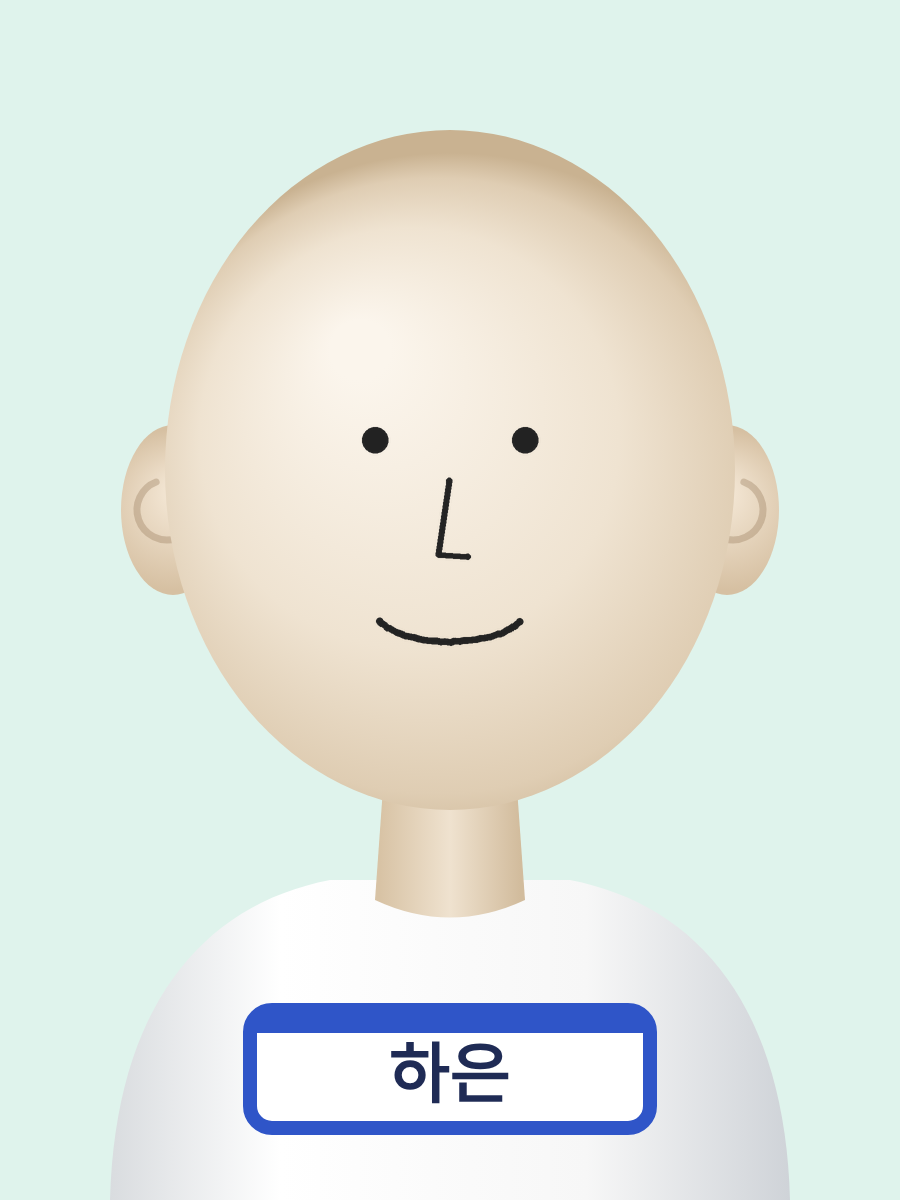
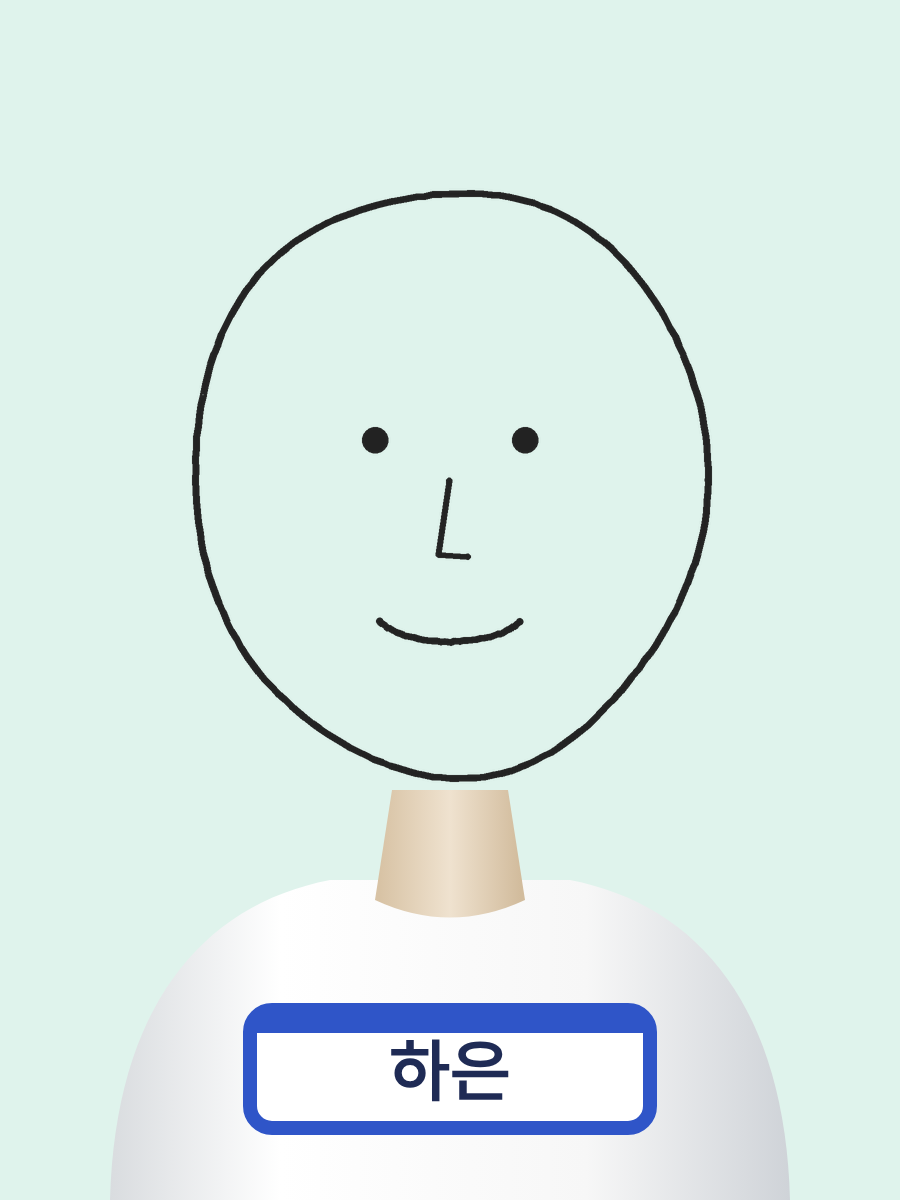
얼굴 그리기: 얼굴형도 참가자가 직접 그리도록 변경
- 미리 그려진 머리·귀를 없애고 어깨·목·이름표만 남김
- 그림판에 '얼굴형부터 직접 그려 보세요' 점선 안내 (그리기 시작하면 사라지고, 제출 그림에는 안 들어감)
- 아직 안 그린 캐릭터는 큰 화면·대기 화면에서 점선 물음표 얼굴로 표시
- 시연용 예시 그림 8장을 얼굴형까지 그린 버전으로 다시 만듦

Claude-Session: https://claude.ai/code/session_018etMHwfRsBh2cTx56cfdEi

Changed region(s): [[0.1244, 0.0925, 0.8711, 0.74], [0.3111, 0.2467, 0.5289, 0.4008], [0.4356, 0.8633, 0.56, 0.925]]

diff --git a/face/common.js b/face/common.js
@@ -164,7 +164,7 @@ function confetti(duration = 3500) {
 }
 
 // ------------------------------------------------------------------------------
-// 캐릭터(이름표를 단 민머리 마네킹) — 참가자 그림판, 큰 화면, 완성 그림에 똑같이 사용
+// 캐릭터(이름표를 단 어깨 + 목) — 얼굴형은 참가자가 직접 그립니다. 그림판, 큰 화면, 완성 그림에 똑같이 사용
 // 좌표는 900×1200 기준입니다.
 const CHAR_W = 900, CHAR_H = 1200;
 const HEAD = { cx: 450, cy: 470, rx: 285, ry: 340 };
@@ -187,23 +187,8 @@ function drawCharBody(ctx, { bg } = {}) {
   g.addColorStop(0, '#d8c3a5'); g.addColorStop(0.5, '#efe2cf'); g.addColorStop(1, '#d2bc9d');
   ctx.fillStyle = g;
   ctx.beginPath();
-  ctx.moveTo(385, 760); ctx.lineTo(515, 760); ctx.lineTo(525, 900);
+  ctx.moveTo(392, 790); ctx.lineTo(508, 790); ctx.lineTo(525, 900);
   ctx.quadraticCurveTo(450, 935, 375, 900); ctx.closePath(); ctx.fill();
-  // 귀
-  for (const sx of [-1, 1]) {
-    const ex = HEAD.cx + sx * (HEAD.rx - 8), ey = HEAD.cy + 40;
-    g = ctx.createRadialGradient(ex - sx * 10, ey - 20, 5, ex, ey, 80);
-    g.addColorStop(0, '#f6ead9'); g.addColorStop(1, '#d6c0a2');
-    ctx.fillStyle = g;
-    ctx.beginPath(); ctx.ellipse(ex, ey, 52, 85, 0, 0, Math.PI * 2); ctx.fill();
-    ctx.strokeStyle = 'rgba(150,120,90,.35)'; ctx.lineWidth = 7; ctx.lineCap = 'round';
-    ctx.beginPath(); ctx.arc(ex + sx * 6, ey, 30, sx > 0 ? -1.2 : Math.PI - 1.9, sx > 0 ? 1.9 : Math.PI + 1.2); ctx.stroke();
-  }
-  // 머리 (입체감 있는 달걀 모양)
-  g = ctx.createRadialGradient(HEAD.cx - 90, HEAD.cy - 120, 30, HEAD.cx, HEAD.cy + 40, HEAD.ry * 1.05);
-  g.addColorStop(0, '#fbf5ec'); g.addColorStop(0.55, '#efe3d1'); g.addColorStop(0.85, '#dfcdb3'); g.addColorStop(1, '#c9b291');
-  ctx.fillStyle = g;
-  ctx.beginPath(); ctx.ellipse(HEAD.cx, HEAD.cy, HEAD.rx, HEAD.ry, 0, 0, Math.PI * 2); ctx.fill();
   ctx.restore();
 }
 
@@ -235,9 +220,42 @@ function roundRect(ctx, x, y, w, h, r) {
 }
 
 // 완성 캐릭터 그리기: 몸통 → 참가자 그림(투명 PNG/캔버스) → 이름표
+// 그림판에만 보이는 안내선 (완성 그림에는 들어가지 않음)
+function drawFaceGuide(ctx) {
+  ctx.save();
+  ctx.setLineDash([18, 22]); ctx.lineWidth = 6; ctx.lineCap = 'round';
+  ctx.strokeStyle = 'rgba(47,85,200,.22)';
+  ctx.beginPath(); ctx.ellipse(HEAD.cx, HEAD.cy, HEAD.rx, HEAD.ry, 0, 0, Math.PI * 2); ctx.stroke();
+  ctx.setLineDash([]);
+  ctx.fillStyle = 'rgba(47,85,200,.45)';
+  ctx.textAlign = 'center'; ctx.textBaseline = 'middle';
+  ctx.font = `800 52px ${getComputedStyle(document.body).fontFamily}`;
+  ctx.fillText('얼굴형부터', HEAD.cx, HEAD.cy - 34);
+  ctx.fillText('직접 그려 보세요', HEAD.cx, HEAD.cy + 34);
+  ctx.font = `600 34px ${getComputedStyle(document.body).fontFamily}`;
+  ctx.fillText('동그라미 · 네모 · 세모 · 무엇이든', HEAD.cx, HEAD.cy + 110);
+  ctx.restore();
+}
+
+// 아직 그리기 전인 참가자: 점선 얼굴 자리 + 물음표
+function drawFacePlaceholder(ctx) {
+  ctx.save();
+  ctx.fillStyle = 'rgba(255,255,255,.7)';
+  ctx.beginPath(); ctx.ellipse(HEAD.cx, HEAD.cy, HEAD.rx, HEAD.ry, 0, 0, Math.PI * 2); ctx.fill();
+  ctx.setLineDash([26, 22]); ctx.lineWidth = 12; ctx.lineCap = 'round';
+  ctx.strokeStyle = 'rgba(47,85,200,.45)'; ctx.stroke();
+  ctx.setLineDash([]);
+  ctx.fillStyle = 'rgba(47,85,200,.55)';
+  ctx.textAlign = 'center'; ctx.textBaseline = 'middle';
+  ctx.font = `900 260px ${getComputedStyle(document.body).fontFamily}`;
+  ctx.fillText('?', HEAD.cx, HEAD.cy + 10);
+  ctx.restore();
+}
+
 function drawCharacter(ctx, { name, ink, bg }) {
   drawCharBody(ctx, { bg });
   if (ink) ctx.drawImage(ink, 0, 0, CHAR_W, CHAR_H);
+  else drawFacePlaceholder(ctx);
   drawCharBadge(ctx, name);
 }
 

diff --git a/face/join.js b/face/join.js
@@ -176,8 +176,8 @@ function drawMini() {
 // ------------------------------------------------------------ 그림판
 const wrap = $('#canvas-wrap');
 const zoomer = $('#zoomer');
-const cBase = $('#c-base'), cInk = $('#c-ink'), cBadge = $('#c-badge');
-for (const c of [cBase, cInk, cBadge]) { c.width = W * SCALE; c.height = H * SCALE; }
+const cBase = $('#c-base'), cGuide = $('#c-guide'), cInk = $('#c-ink'), cBadge = $('#c-badge');
+for (const c of [cBase, cGuide, cInk, cBadge]) { c.width = W * SCALE; c.height = H * SCALE; }
 const ctx = cInk.getContext('2d');
 ctx.setTransform(SCALE, 0, 0, SCALE, 0, 0);
 
@@ -197,6 +197,11 @@ function drawStatic() {
   b.setTransform(SCALE, 0, 0, SCALE, 0, 0);
   b.clearRect(0, 0, W, H);
   drawCharBody(b);
+  const gd = cGuide.getContext('2d');
+  gd.setTransform(SCALE, 0, 0, SCALE, 0, 0);
+  gd.clearRect(0, 0, W, H);
+  drawFaceGuide(gd);
+  updateGuide();
   const g = cBadge.getContext('2d');
   g.setTransform(SCALE, 0, 0, SCALE, 0, 0);
   g.clearRect(0, 0, W, H);
@@ -252,10 +257,12 @@ function paintStroke(c, s) {
   }
   c.globalCompositeOperation = 'source-over';
 }
+function updateGuide() { cGuide.classList.toggle('gone', !!cur || hasInk()); }
 function redraw(c = ctx) {
   c.clearRect(0, 0, W, H);
   for (const s of visibleStrokes()) paintStroke(c, s);
   updateButtons();
+  if (c === ctx) updateGuide();
 }
 
 function toCanvas(e) {
@@ -285,6 +292,7 @@ wrap.addEventListener('pointerdown', (e) => {
   const [x, y] = toCanvas(e);
   cur = { t: 's', c: color, w: tool === 'eraser' ? Math.max(size * 2, 24) : size, p: [rd(x), rd(y)] };
   if (tool === 'eraser') cur.e = 1;
+  updateGuide();
   strokes.push(cur);
   paintStroke(ctx, cur);
 });

diff --git a/face/index.html b/face/index.html
@@ -8,7 +8,7 @@
 <meta name="theme-color" content="#fff7e8">
 <title>얼굴 그리기 대회 — 참가</title>
 <link rel="stylesheet" href="common.css">
-<link rel="stylesheet" href="join.css">
+<link rel="stylesheet" href="join.css?v=face2">
 </head>
 <body class="join">
 
@@ -62,6 +62,7 @@
   <div class="canvas-wrap" id="canvas-wrap">
     <div class="zoomer" id="zoomer">
       <canvas id="c-base"></canvas>
+      <canvas id="c-guide" aria-hidden="true"></canvas>
       <canvas id="c-ink" aria-label="그림판"></canvas>
       <canvas id="c-badge"></canvas>
     </div>
@@ -116,8 +117,8 @@
 <div class="net-badge hidden" id="net-badge">📶 연결 중…</div>
 
 <script src="vendor/supabase.js"></script>
-<script src="common.js"></script>
+<script src="common.js?v=face2"></script>
 <script src="fd.js"></script>
-<script src="join.js"></script>
+<script src="join.js?v=face2"></script>
 </body>
 </html>

diff --git a/face/join.css b/face/join.css
@@ -72,6 +72,8 @@ body.join input { user-select: text; -webkit-user-select: text; }
   background: radial-gradient(ellipse at 50% 40%, #e9f8f2, #cdeee3); touch-action: none; box-shadow: 0 4px 0 var(--line); }
 .zoomer { position: absolute; transform-origin: 0 0; }
 .zoomer canvas { position: absolute; inset: 0; width: 100%; height: 100%; }
+#c-guide { pointer-events: none; transition: opacity .25s; }
+#c-guide.gone { opacity: 0; }
 #c-badge { pointer-events: none; }
 .fit-btn { position: absolute; right: 8px; top: 8px; border: 2.5px solid var(--line); border-radius: 12px; background: #fff; font-weight: 800; padding: 8px 12px; z-index: 3; }
 .pinch-hint { position: absolute; left: 50%; bottom: 8px; transform: translateX(-50%); background: rgba(43,33,64,.75); color: #fff; font-weight: 700; font-size: .85rem; border-radius: 999px; padding: 4px 12px; pointer-events: none; transition: opacity .6s; }

diff --git a/face/screen.html b/face/screen.html
@@ -69,8 +69,8 @@
 
 <script src="vendor/qrcode.js"></script>
 <script src="vendor/supabase.js"></script>
-<script src="common.js"></script>
+<script src="common.js?v=face2"></script>
 <script src="fd.js"></script>
-<script src="screen.js"></script>
+<script src="screen.js?v=face2"></script>
 </body>
 </html>

diff --git a/face/host.html b/face/host.html
@@ -202,7 +202,7 @@
 
 <script src="vendor/qrcode.js"></script>
 <script src="vendor/supabase.js"></script>
-<script src="common.js"></script>
+<script src="common.js?v=face2"></script>
 <script src="fd.js"></script>
 <script src="host.js"></script>
 </body>
